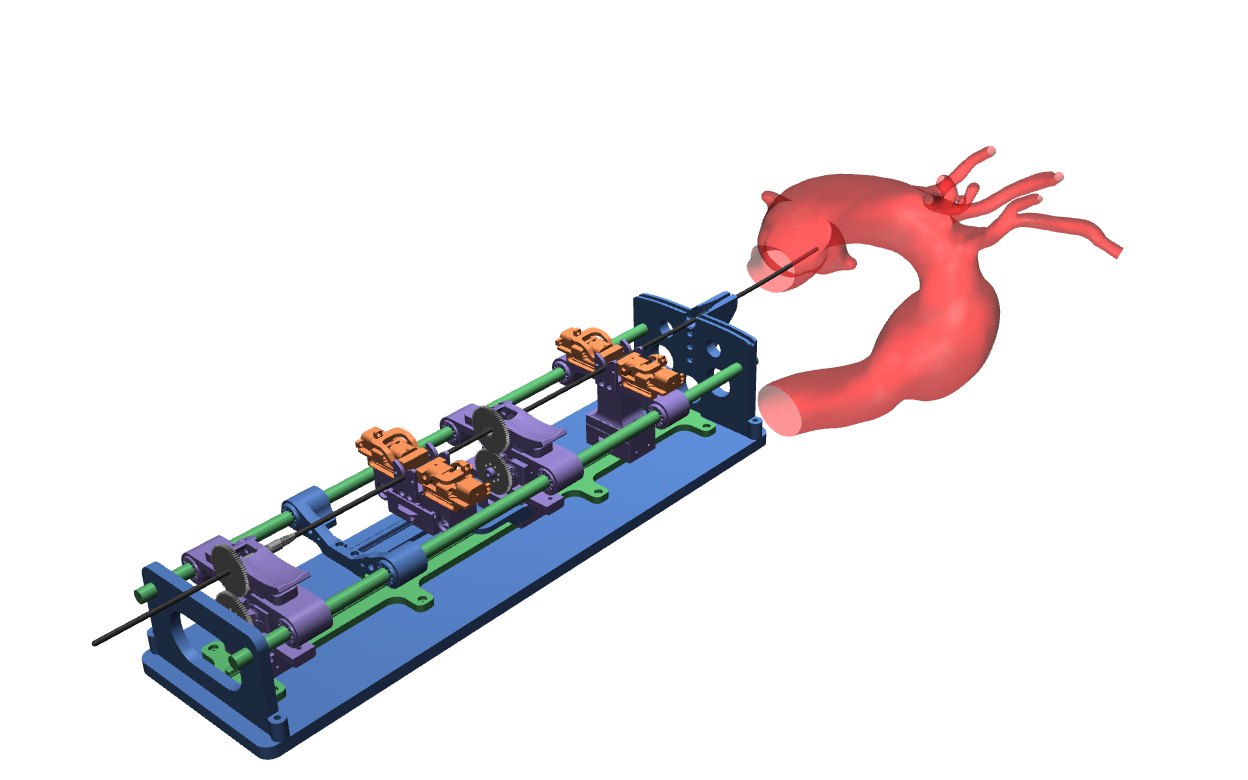
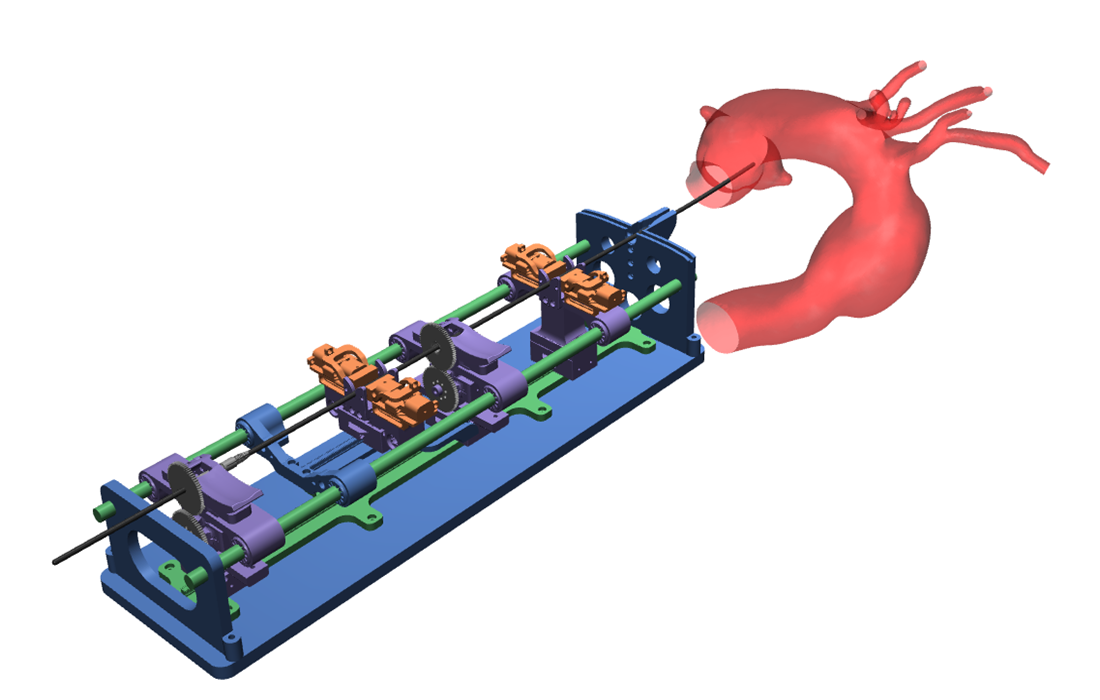
fix main page

Changed region(s): [[0.0309, 0.09, 0.9582, 0.99]]

diff --git a/docs/_pages/home.md b/docs/_pages/home.md
@@ -19,14 +19,14 @@ feature_row:
     url: "/docs/introduction/"
     btn_class: "btn--primary"
     btn_label: "Learn more"
-  - image_path: /assets/images/cathsim_main.png
+  - image_path: /assets/images/autocath2.jpg
     alt: "zero shot"
     title: "Autonomous Endovascular Catheterization"
     excerpt: "Our project enables sim2real for autonomous endovascular catheterization."
     url: "/docs/grasp-anything/"
     btn_class: "btn--primary"
     btn_label: "Learn more"
-  - image_path: /assets/images/cathsim_main.png
+  - image_path: /assets/images/data_main3.jpg
     alt: "language-driven grasp"
     title: "Large-scale Endovascular Datasets"
     excerpt: "Our datasets allows large-scale learning for diffirent endovascular intervention tasks."
